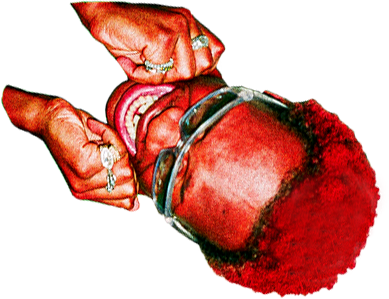
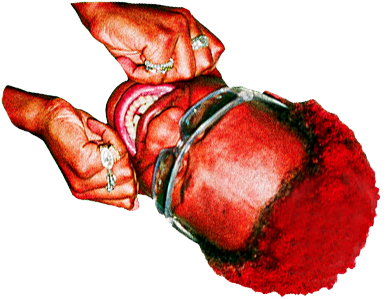
Remove backgrounds from images so no clipping

diff --git a/src/backgroundImages.tsx b/src/backgroundImages.tsx
@@ -14,7 +14,7 @@ export const backgroundImages = [
     y: 10,
     ySpeed: -0.4,
     xSpeed: -0.4,
-    width: 90,
+    width: 80,
     height: 100,
   },
   {
@@ -30,8 +30,8 @@ export const backgroundImages = [
     src: Eman3,
     x: 100,
     y: 400,
-    ySpeed: 1.4,
-    xSpeed: 1.7,
+    ySpeed: 0.4,
+    xSpeed: 0.7,
     width: 100,
     height: 100,
   },
@@ -39,7 +39,7 @@ export const backgroundImages = [
     src: DrawnHead1,
     x: 164,
     y: 8,
-    ySpeed: 1,
+    ySpeed: 0.8,
     xSpeed: 0.6,
     width: 80,
     height: 80,
@@ -58,7 +58,7 @@ export const backgroundImages = [
     x: 230,
     y: 200,
     ySpeed: 0.3,
-    xSpeed: 1,
+    xSpeed: 0.6,
     width: 80,
     height: 80,
   },
@@ -66,17 +66,17 @@ export const backgroundImages = [
     src: Luni2,
     x: 140,
     y: 230,
-    ySpeed: 1.4,
-    xSpeed: 1,
+    ySpeed: 0.4,
+    xSpeed: 0.6,
     width: 60,
     height: 100,
   },
   {
     src: Luni1,
-    x: 0,
+    x: 200,
     y: 0,
-    ySpeed: 0.8,
-    xSpeed: 1.4,
+    ySpeed: 0.3,
+    xSpeed: 0.4,
     width: 60,
     height: 100,
   },

diff --git a/src/styles.tsx b/src/styles.tsx
@@ -51,12 +51,13 @@ export const ArrowImage = styled.img<{
 }>`
   width: ${(props) => (props.mouseDown ? '97%' : '100%')};
   cursor: pointer;
+  background: transparent;
 `;
 
 export const ArrowButton = styled.button`
   width: 80%;
   max-width: 150px;
-  background-color: white;
+  background-color: transparent;
   padding: 0;
   border: none;
   display: flex;
@@ -79,7 +80,7 @@ export const ScreenshotButtonImage = styled.img<{
 
 export const StyledButton = styled.button`
   max-width: 50px;
-  background-color: white;
+  background-color: transparent;
   grid-column: 3;
   grid-row: 5;
   border: none;
